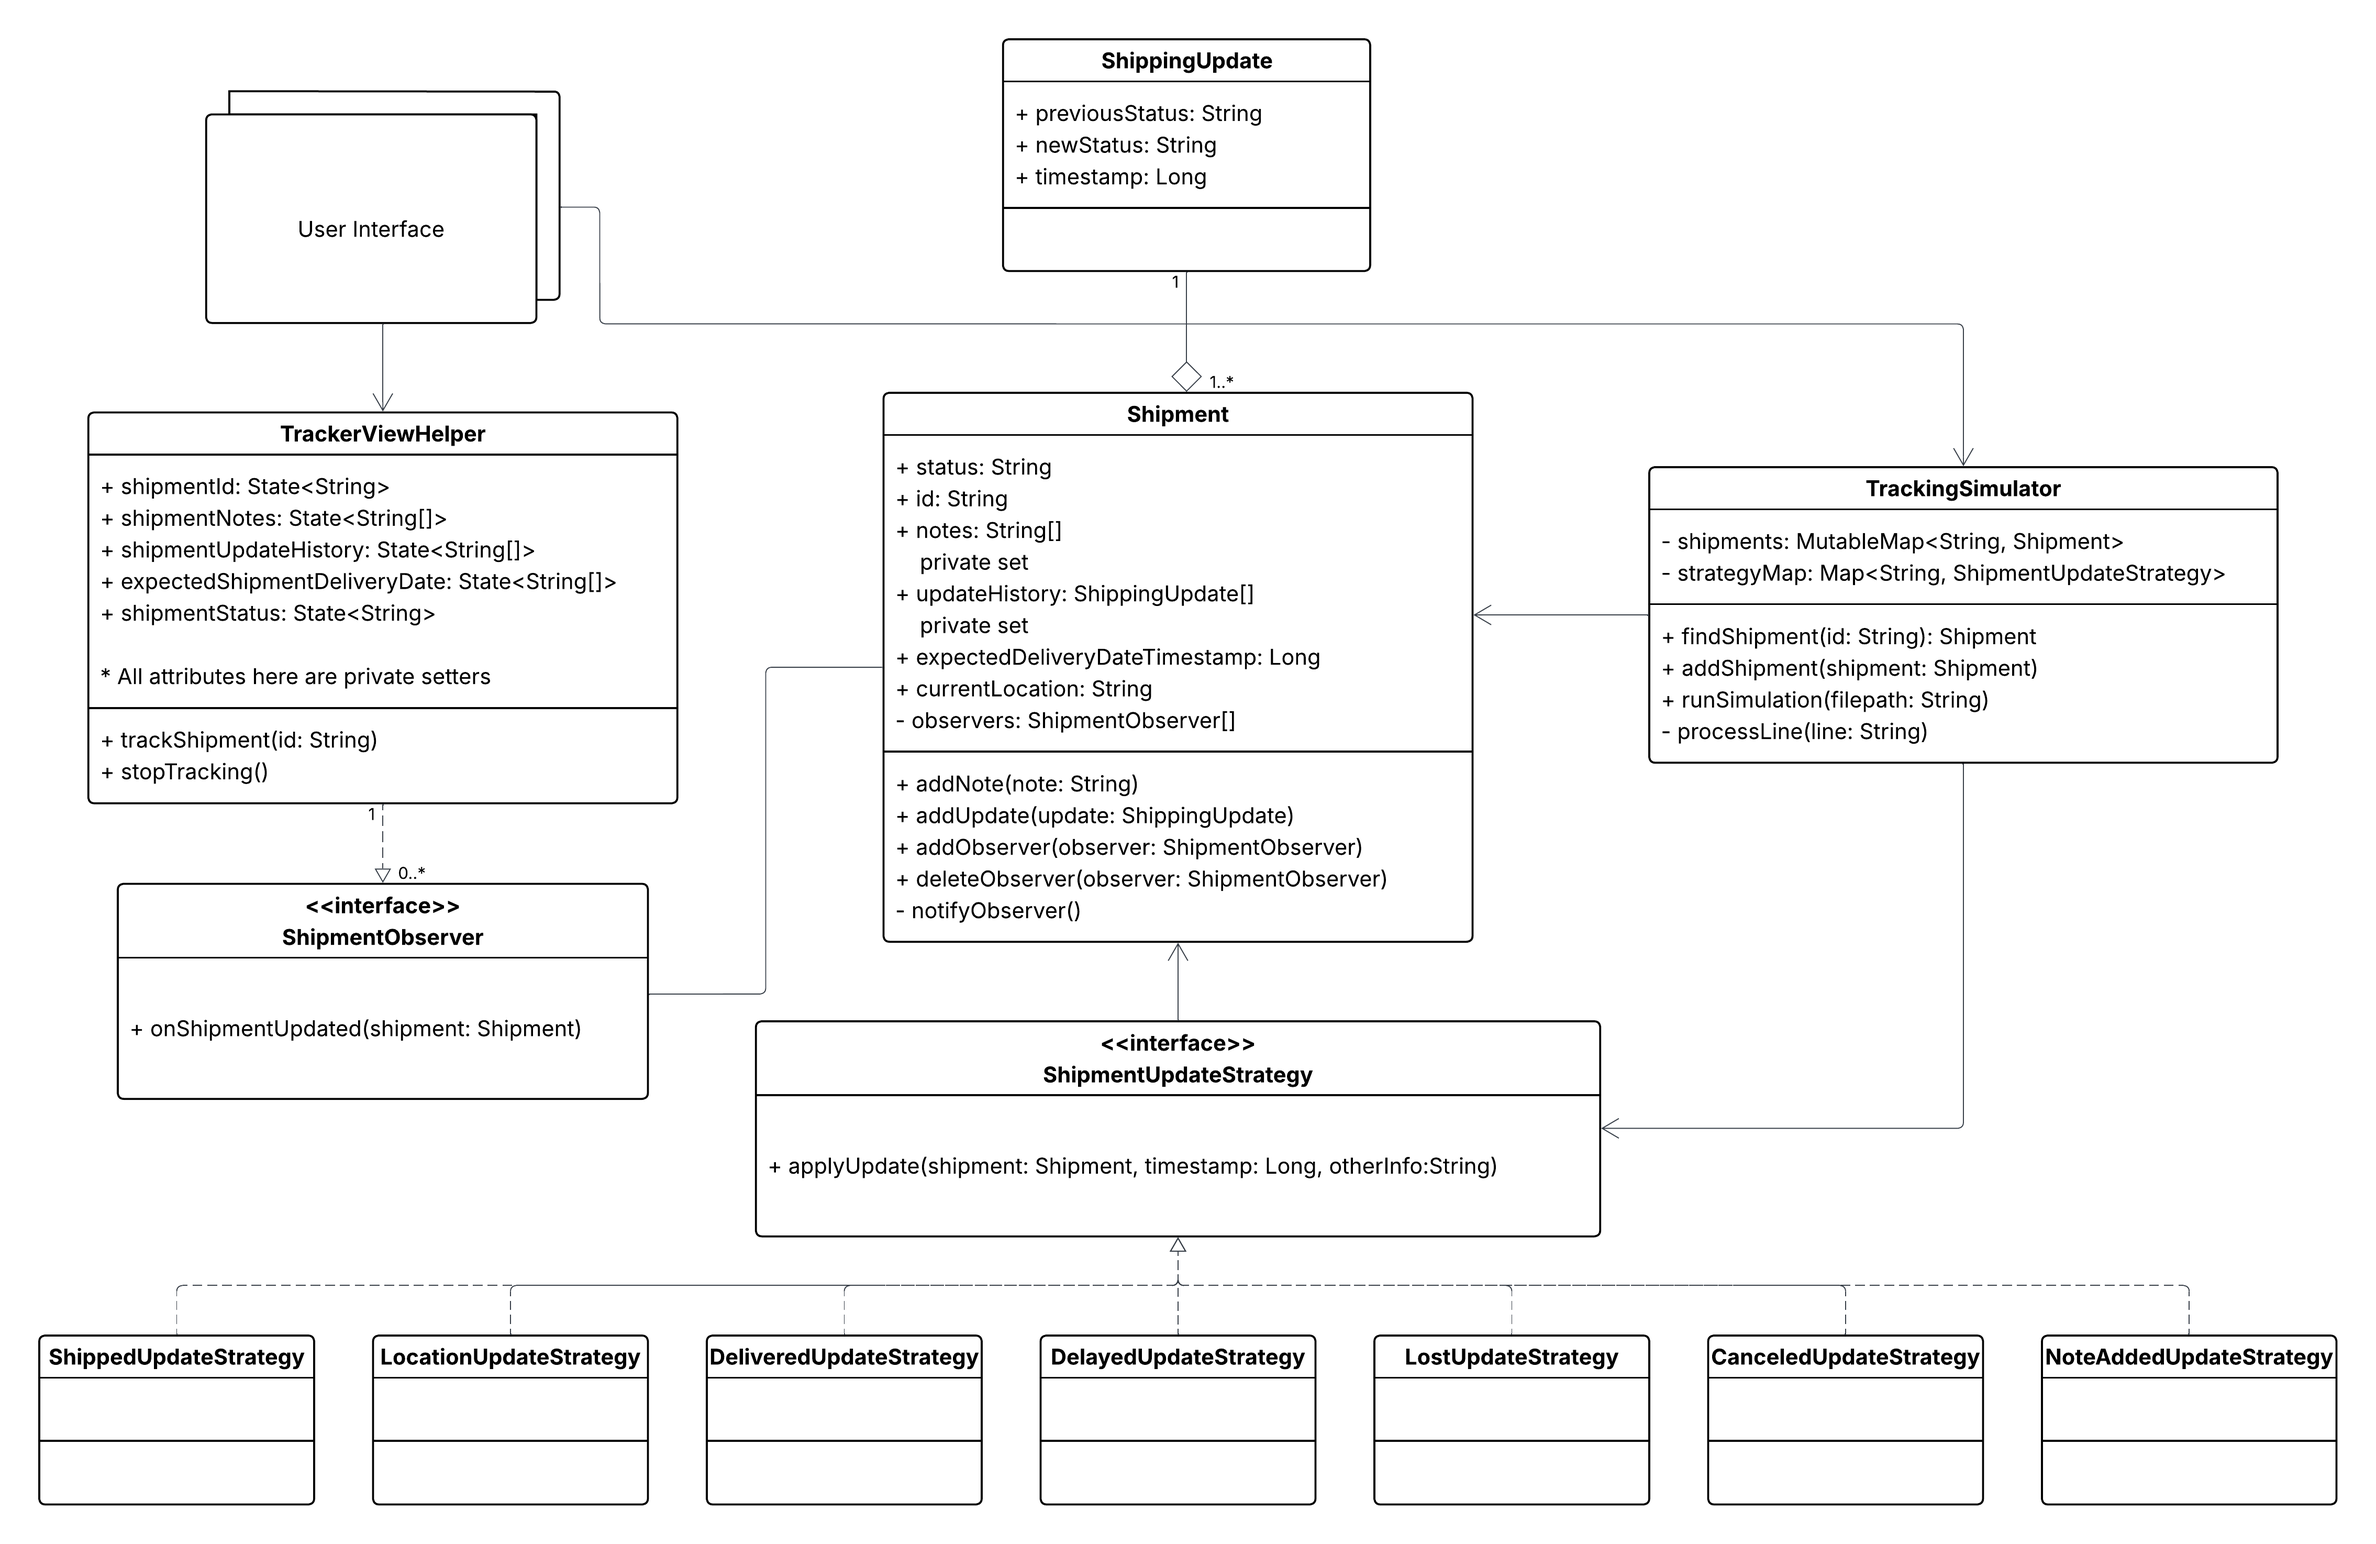
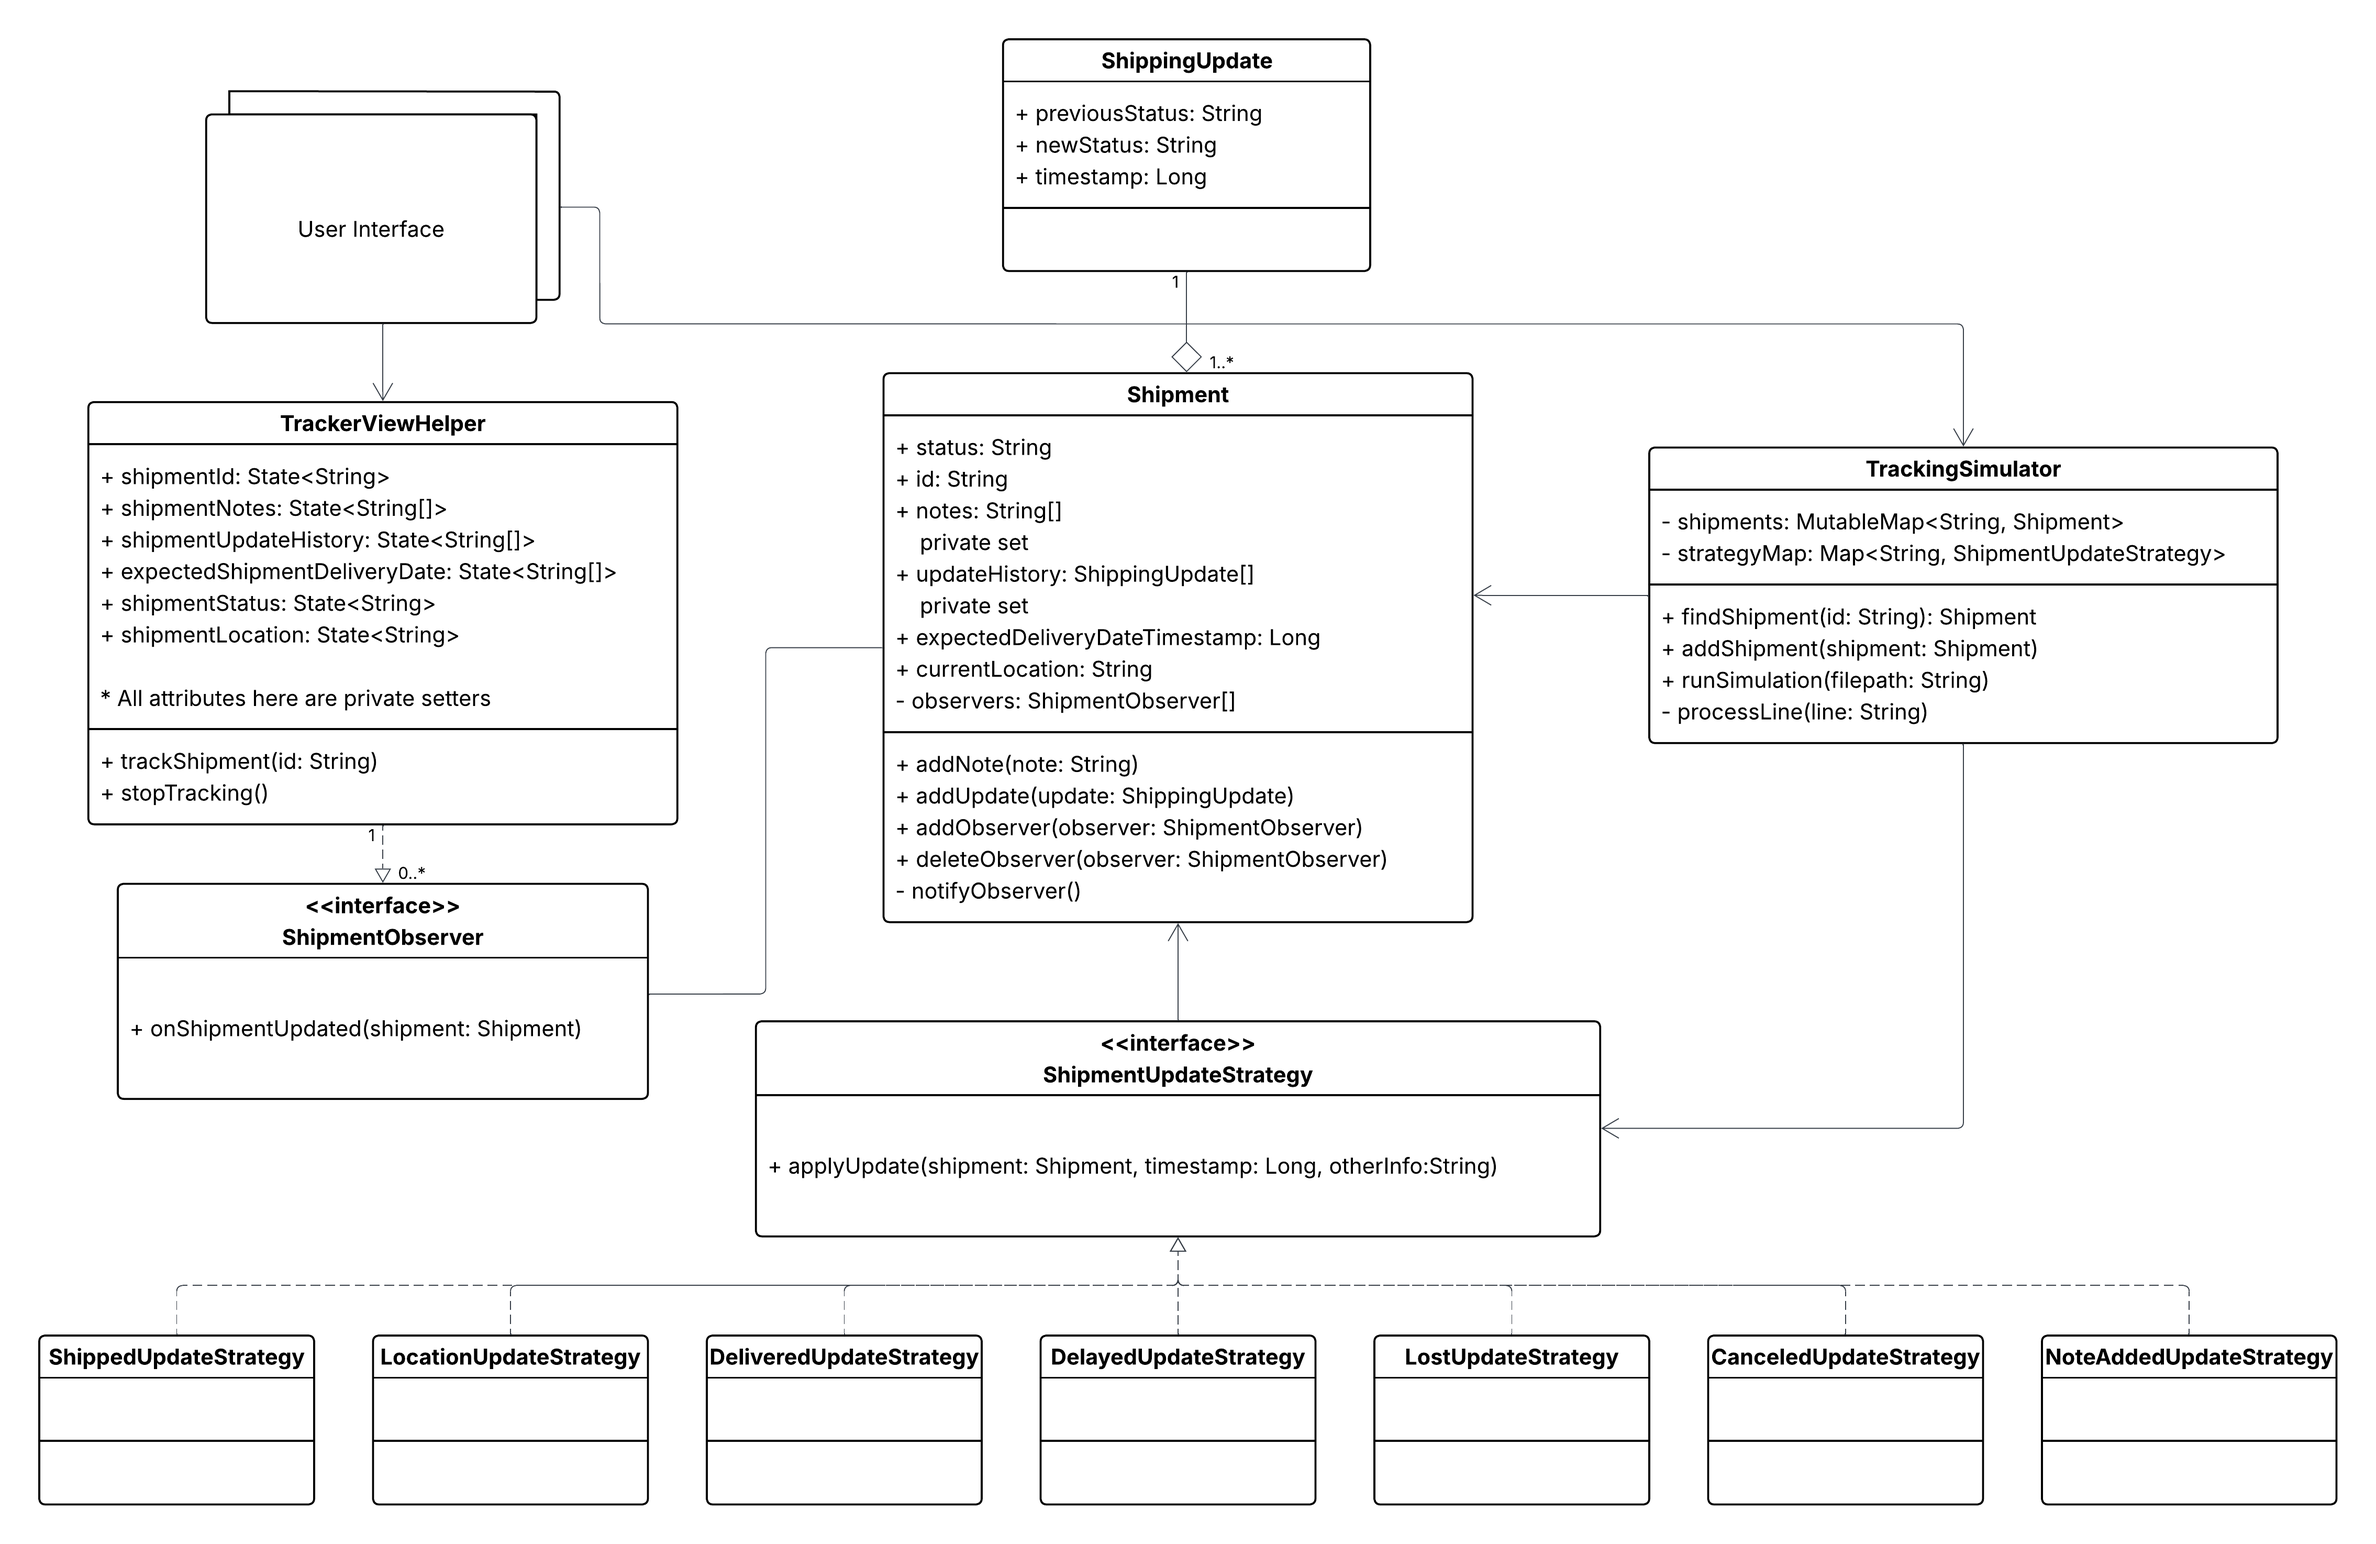
final Submission

diff --git a/src/main/kotlin/shipment/TrackerViewHelper.kt b/src/main/kotlin/shipment/TrackerViewHelper.kt
@@ -25,6 +25,9 @@ class TrackerViewHelper : ShipmentObserver {
     private val _shipmentStatus = MutableStateFlow("")
     val shipmentStatus: StateFlow<String> = _shipmentStatus
 
+    private val _shipmentLocation = MutableStateFlow("")
+    val shipmentLocation: StateFlow<String> = _shipmentLocation
+
     override fun onShipmentUpdated(shipment: Shipment) {
         _shipmentId.value = shipment.id
         _shipmentNotes.value = shipment.notes.toList()
@@ -32,8 +35,13 @@ class TrackerViewHelper : ShipmentObserver {
             val formattedTime = formatter.format(Date(it.timestamp))
             "Shipment went from ${it.previousStatus} to ${it.newStatus} at $formattedTime"
         }
-        _expectedShipmentDeliveryDate.value = formatter.format(Date(shipment.expectedDeliveryDateTimeStamp))
+        _expectedShipmentDeliveryDate.value = if (shipment.expectedDeliveryDateTimeStamp >0L) {
+            formatter.format(Date(shipment.expectedDeliveryDateTimeStamp))
+        } else {
+            "unknown"
+        }
         _shipmentStatus.value = shipment.status
+        _shipmentLocation.value = shipment.currentLocation
     }
 
     fun trackShipment(shipment: Shipment) {

diff --git a/src/test/kotlin/shipment/TrackerViewHelperTest.kt b/src/test/kotlin/shipment/TrackerViewHelperTest.kt
@@ -10,7 +10,7 @@ class TrackerViewHelperTest {
     @Test
     fun onShipmentUpdatedAttributesVerification() = runTest {
         val shipment = createTestShipment()
-        ShippedUpdateStrategy().applyUpdate(shipment, 123L, "888888")
+        ShippedUpdateStrategy().applyUpdate(shipment, 123L, "1652713940874")
         shipment.addNote("Fragile")
 
         val helper = TrackerViewHelper()
@@ -19,7 +19,7 @@ class TrackerViewHelperTest {
         assertEquals("abc", helper.shipmentId.first())
         assertEquals("shipped", helper.shipmentStatus.first())
         assertEquals(listOf("Fragile"), helper.shipmentNotes.first())
-        assertEquals("1969-12-31 17:14:48", helper.expectedShipmentDeliveryDate.first())
+        assertEquals("2022-05-16 09:12:20", helper.expectedShipmentDeliveryDate.first())
         assertTrue(helper.shipmentUpdateHistory.first().first().contains("Shipment went from created to shipped"))
     }
 

diff --git a/src/main/kotlin/main.kt b/src/main/kotlin/main.kt
@@ -63,6 +63,7 @@ fun main() = application {
                         Column(modifier = Modifier.padding(16.dp)) {
                             Text("ID: ${helper.shipmentId.collectAsState().value}")
                             Text("Status: ${helper.shipmentStatus.collectAsState().value}")
+                            Text("Current Location: ${helper.shipmentLocation.collectAsState().value}")
                             Text("Delivery ETA: ${helper.expectedShipmentDeliveryDate.collectAsState().value}")
                             Text("Notes:")
 
